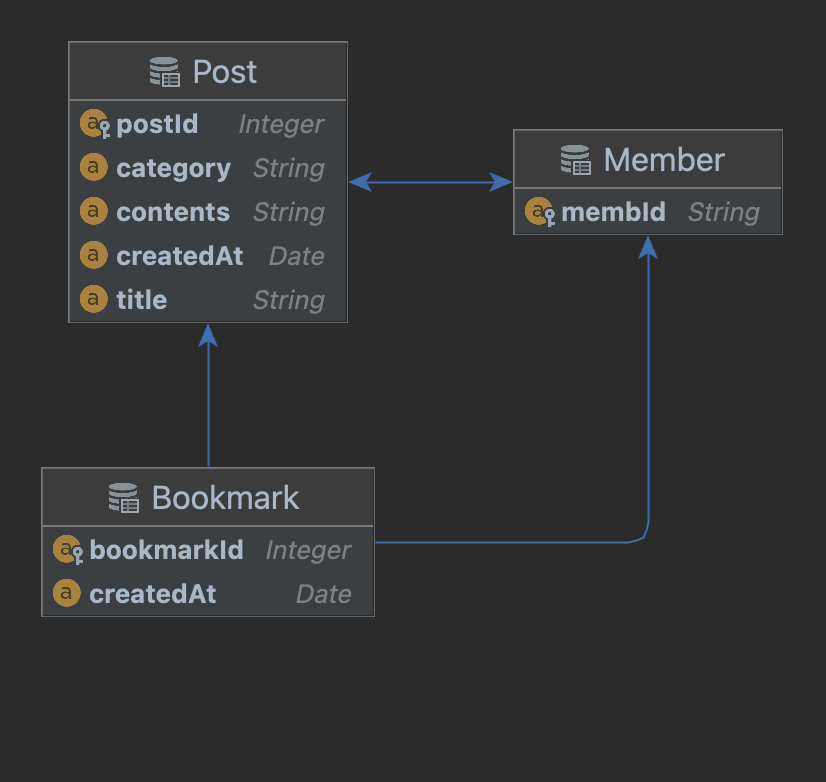
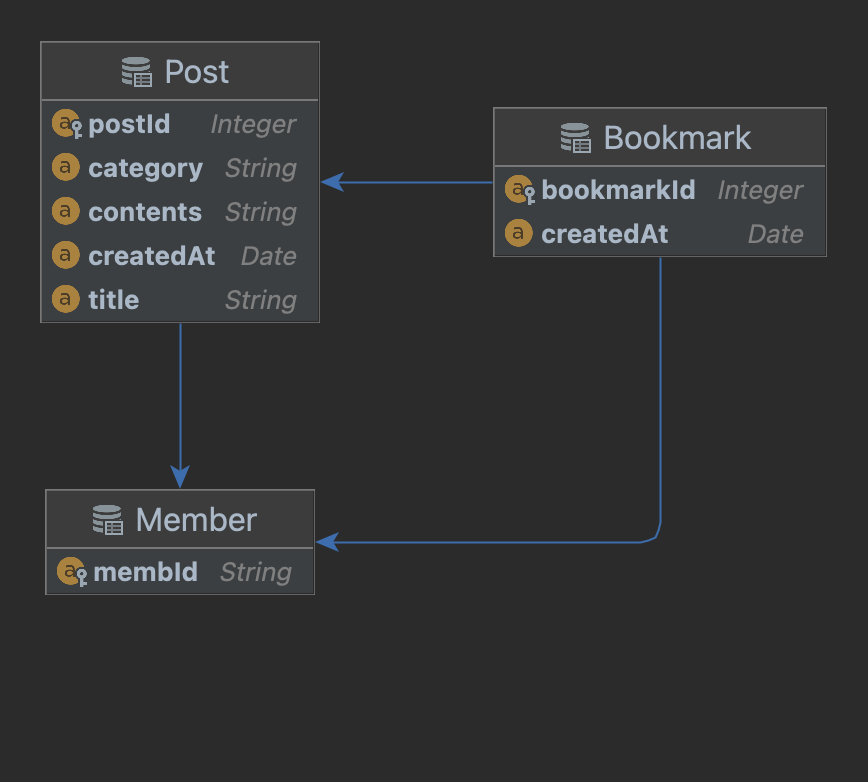
[feat] Member 연관관계 수정

diff --git a/src/main/java/migu/project/remember/data/Member.java b/src/main/java/migu/project/remember/data/Member.java
@@ -3,8 +3,6 @@ package migu.project.remember.data;
 import org.hibernate.annotations.GenericGenerator;
 
 import javax.persistence.*;
-import java.util.ArrayList;
-import java.util.List;
 
 @Entity
 @Table(name = "member")
@@ -16,15 +14,10 @@ public class Member {
     @GenericGenerator(name = "uuid", strategy = "uuid2")
     String membId;
 
-    @OneToMany(mappedBy = "member")
-    private List<Post> post = new ArrayList<>();
-
-
     @Override
     public String toString() {
         return "Member{" +
                 "membId='" + membId + '\'' +
-                ", post=" + post +
                 '}';
     }
 }
